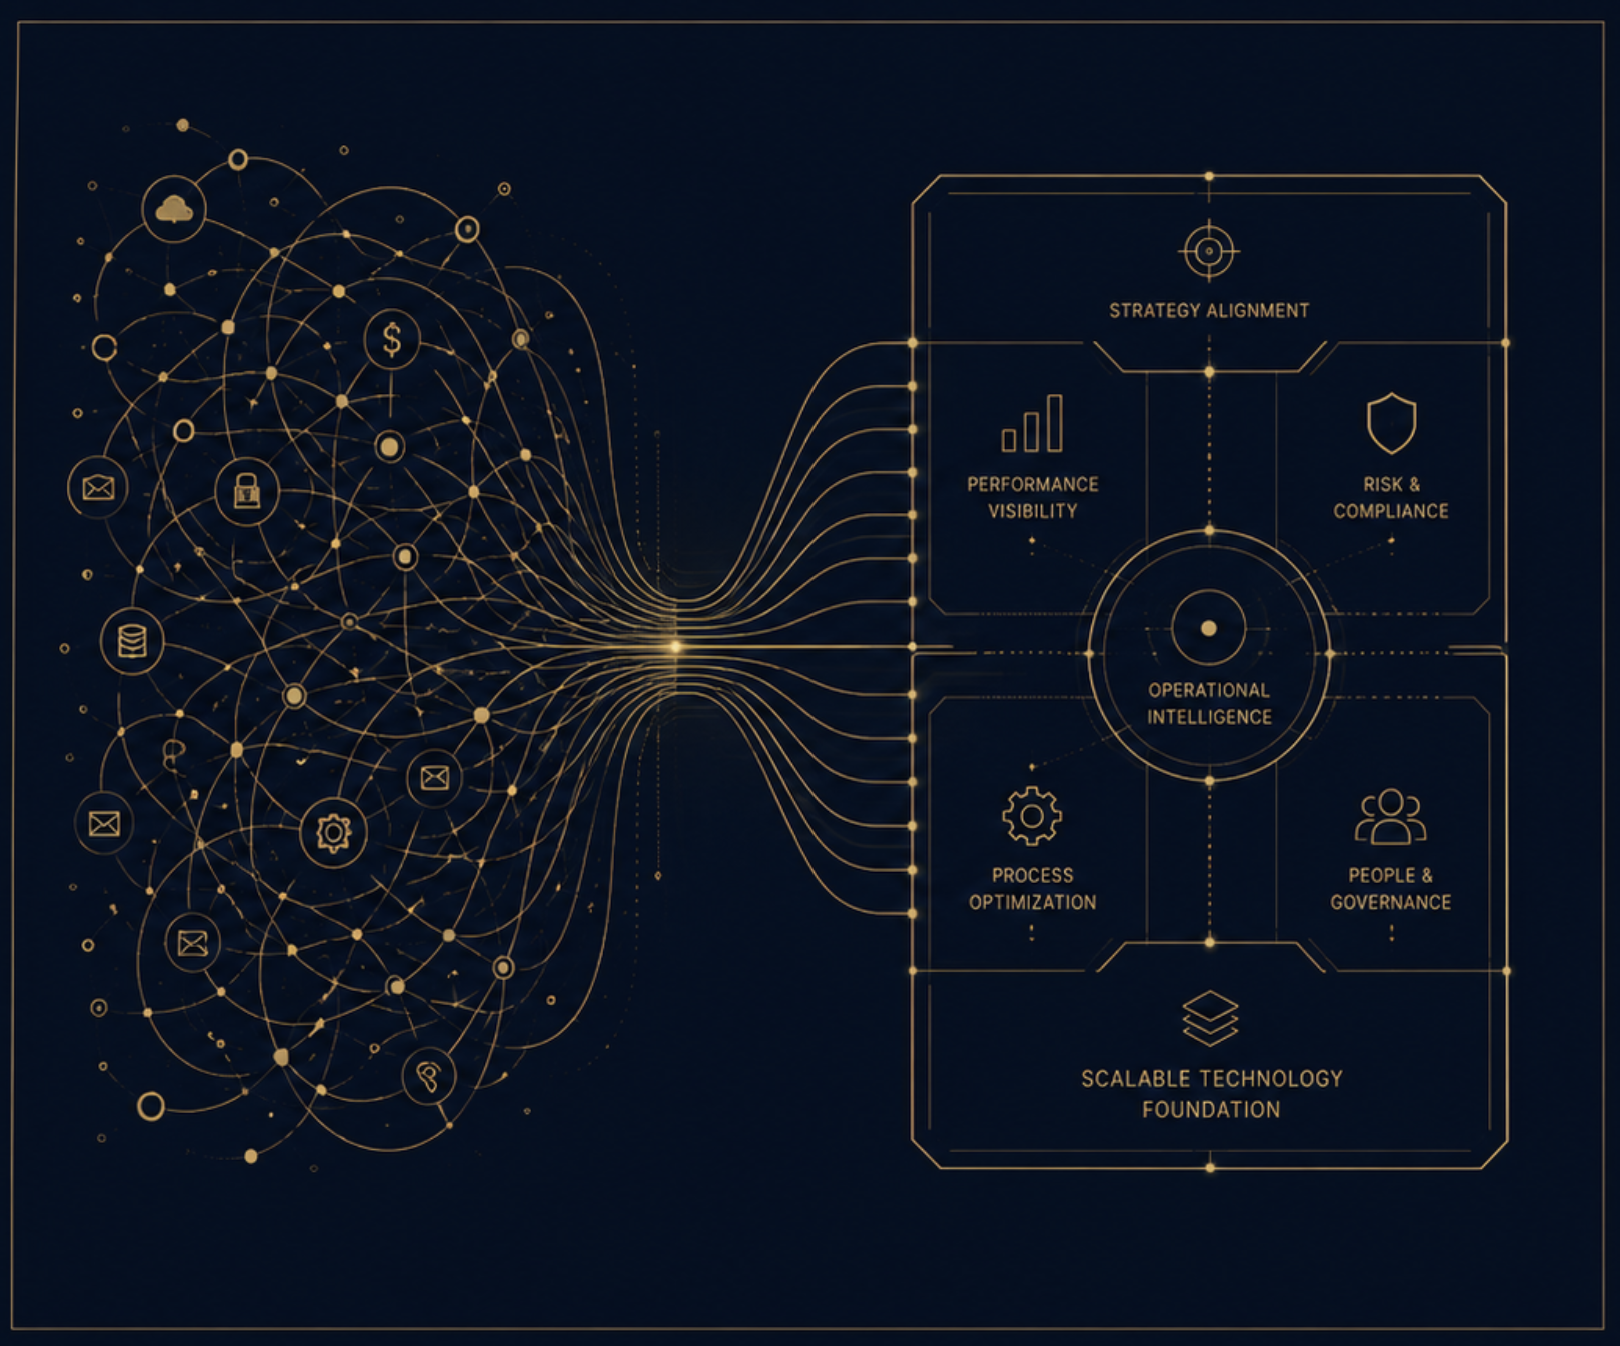
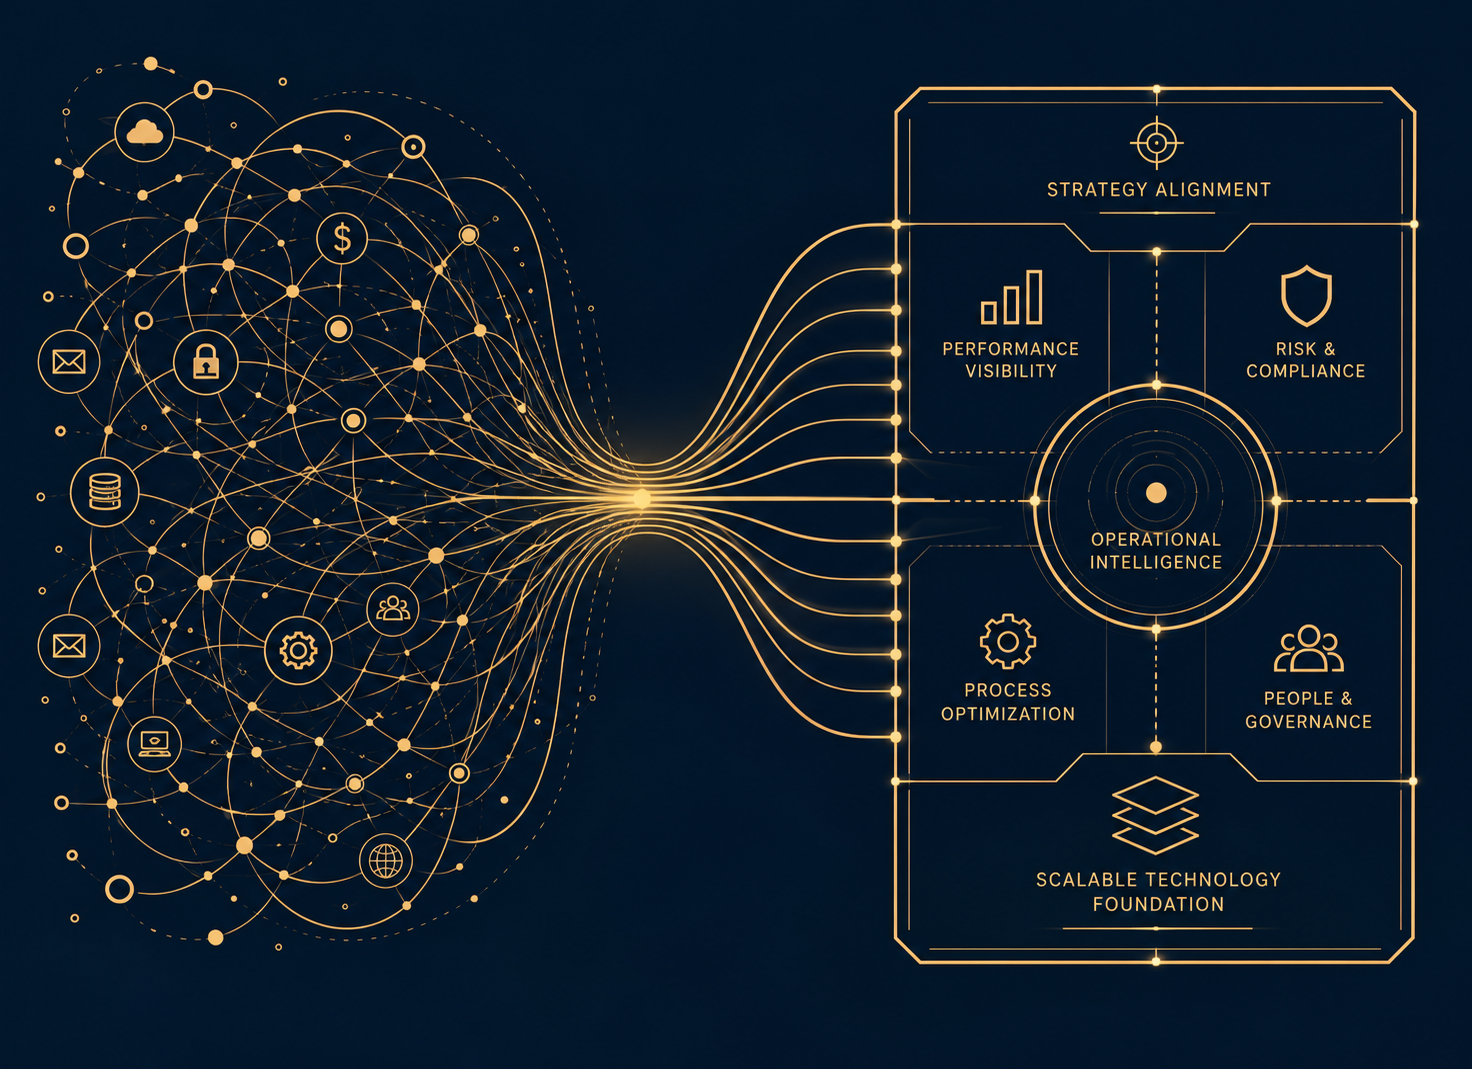
Use improved philosophy image with full-diagram fit, no cropping

diff --git a/index.html b/index.html
@@ -287,8 +287,8 @@
 .belief-block{ margin-top:36px; padding-top:28px; border-top:1px solid var(--line); }
 .belief-line{ font-family:var(--font-display); font-style:italic; font-size:26px; color:var(--gold-light); max-width:440px; }
 .principles{ margin-top:14px; font-family:var(--font-mono); font-size:12px; letter-spacing:0.18em; text-transform:uppercase; color:var(--silver); }
-.philosophy-art{ border:1px solid var(--line-soft); overflow:hidden; aspect-ratio:1/1; }
-.philosophy-art img{ width:100%; height:100%; object-fit:cover; display:block; }
+.philosophy-art{ border:1px solid var(--line-soft); overflow:hidden; aspect-ratio:1/1; background:#0B1830; display:flex; align-items:center; justify-content:center; }
+.philosophy-art img{ width:100%; height:100%; object-fit:contain; display:block; }
 
 .industries-section{ background:var(--navy-deep); }
 .industry-grid{ display:grid; grid-template-columns:repeat(6,1fr); gap:1px; background:var(--line-soft); border:1px solid var(--line-soft); }
